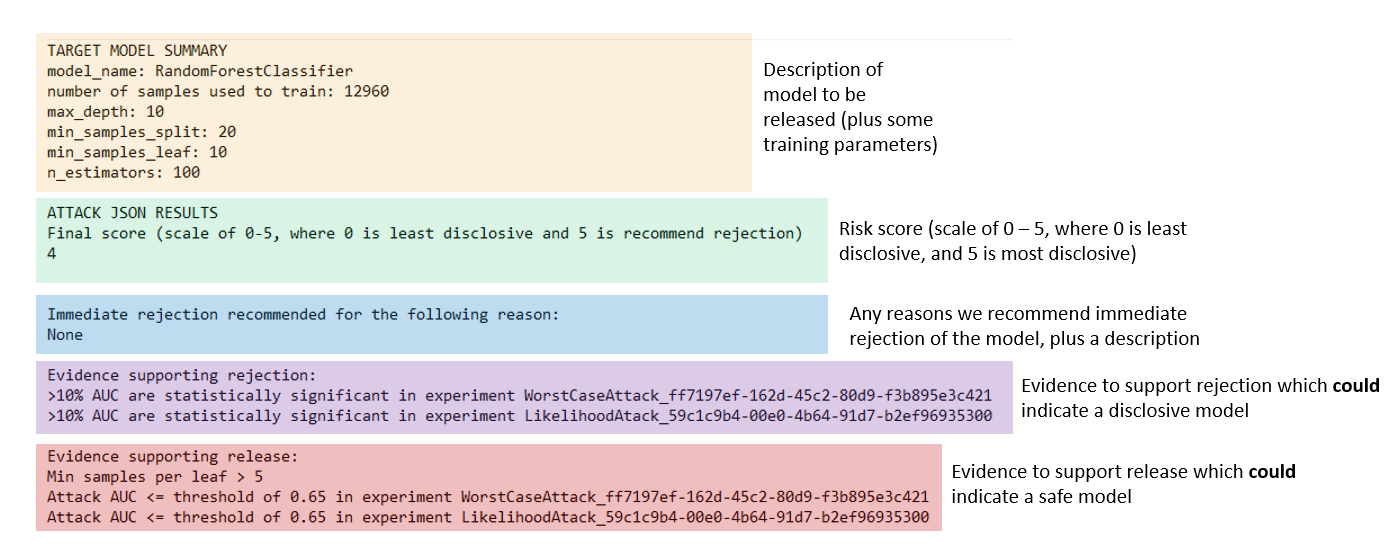
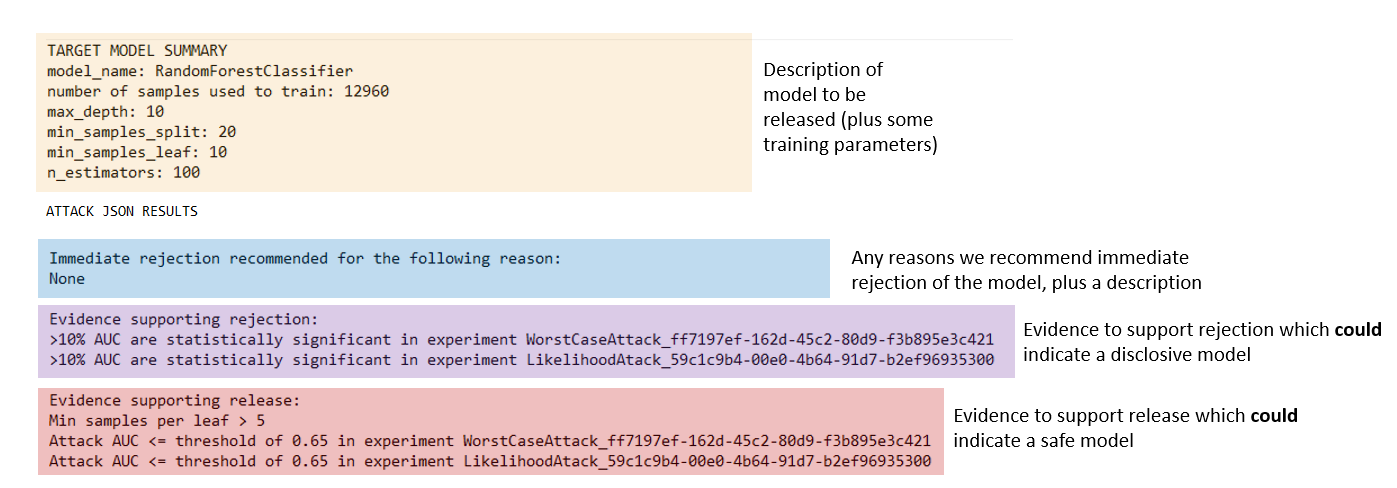
Removing references to final score

Changed region(s): [[0.0, 0.0615, 1.0, 0.9836], [0.5233, 0.0922, 0.6772, 0.3074]]

diff --git a/aisdc/attacks/attack_report_formatter.py b/aisdc/attacks/attack_report_formatter.py
@@ -261,8 +261,8 @@ class FinalRecommendationModule(
 
         output = {}
 
-        msg = "Final score (scale of 0-5, where 0 is least disclosive and 5 is recommend rejection)"
-        output[msg] = summarised_score
+        # msg = "Final score (scale of 0-5, where 0 is least disclosive and 5 is recommend rejection)"
+        # output[msg] = summarised_score
 
         return output
 
